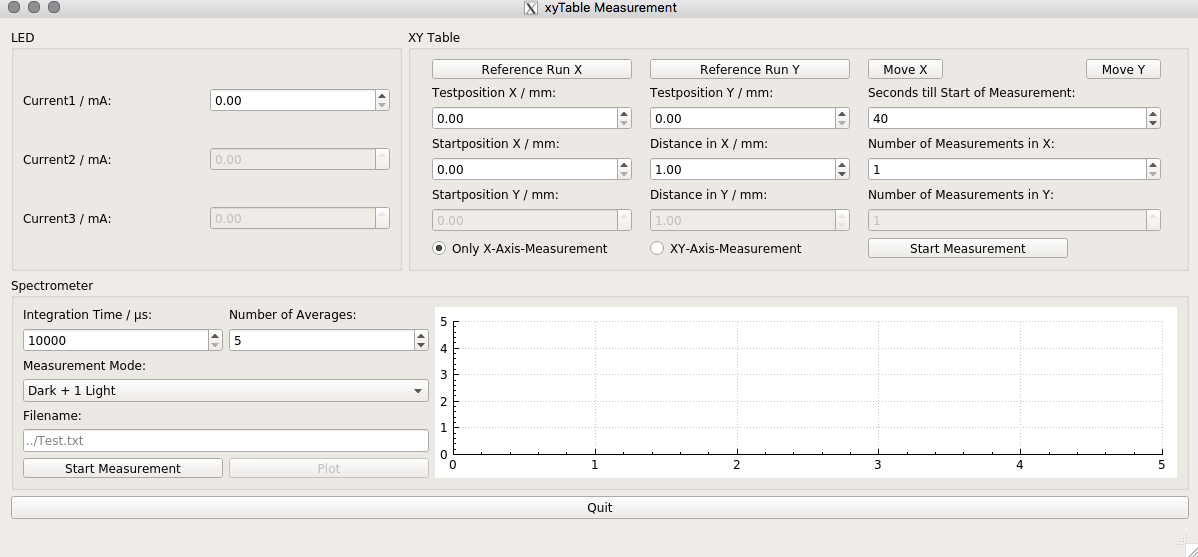
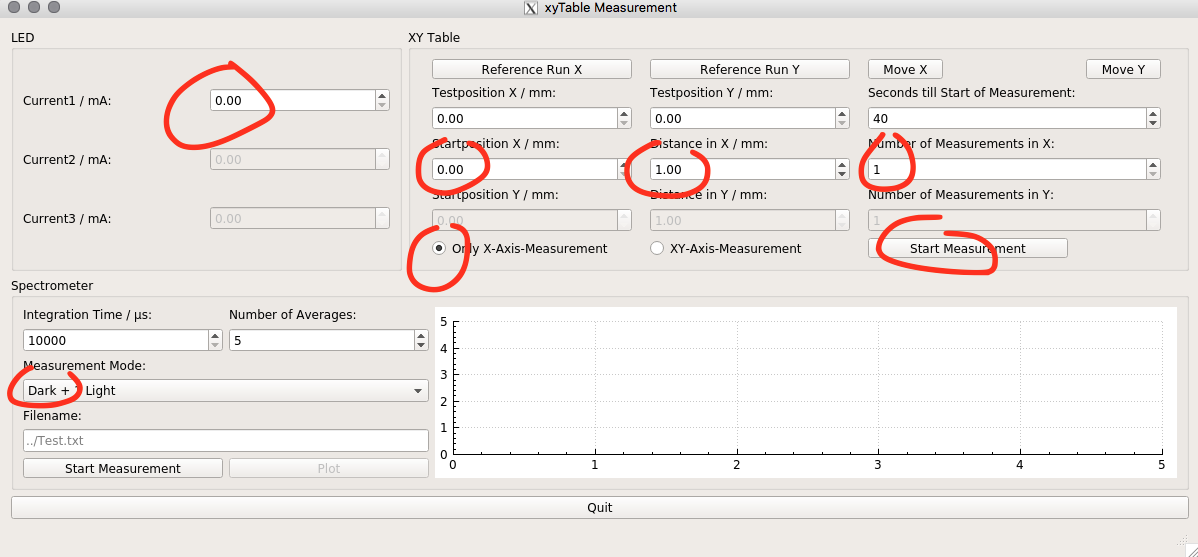
add description of only x measurement

diff --git a/README.md b/README.md
@@ -96,6 +96,23 @@ make
 
 ![](img/xyTable_clean.png)
 
+4.) Only X axis measurement:
+* Apply a reference run if nessesary (carriages will move towards end switches to find zero position)
+* Choose `Only X-Axis-Measurement`
+* Choose `Startposition X / mm, Distance in X / mm` and `Number of Measurements in X`
+1. Test the X-Startposition with `Testposition X / mm` and button `Move X`
+2. Test the Y-Startposition with `Testposition Y / mm` and button `Move Y`
+* Choose a Spectrometer Measurement Mode:
+1. `Single` + `Start Measurement` - Just a snapshot, afterwards you can hit the `Plot` button to display spectrum (use it to find the correct current)
+2. `Dark + 1 Light` - At each position take a darkcount and a light measurement with the given current
+3. `Dark + 3 Light` - At each position take a darkcount and 3 light measurements with the given currents
+* Choose a current for the LED (3 currents if `Dark + 3 Light` Measurement Mode was chosen)
+* Choose a sleeping time, which you need, to leave the room and darken everything
+* Hit the `Start Measurement` button at the `XY Table`section to start actually the measurement
+
+
+![](img/xyTable_OnlyX.png)
+
 
 [1]: https://git.e5.physik.tu-dortmund.de/jmueller/LEDClass
 [2]: https://git.e5.physik.tu-dortmund.de/jmueller/SpectrometerClass
